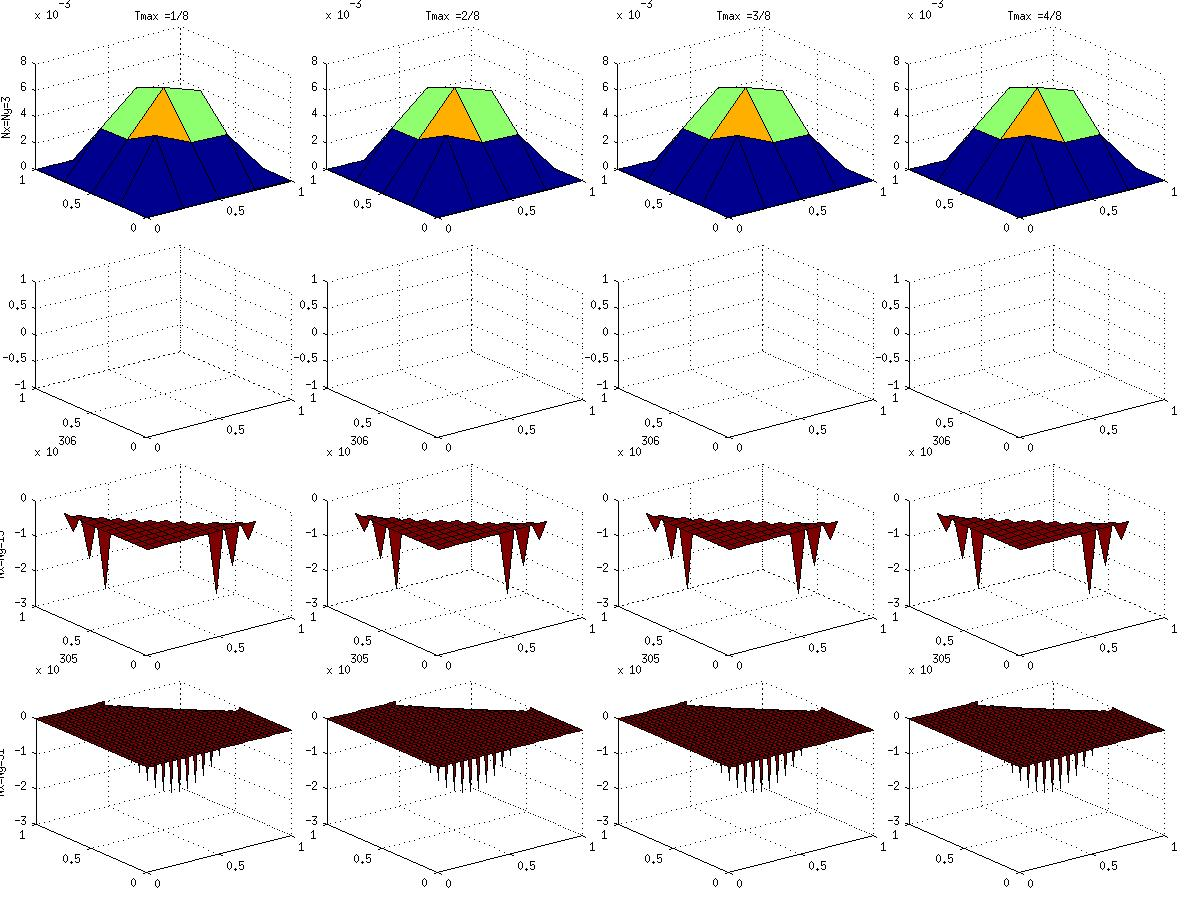
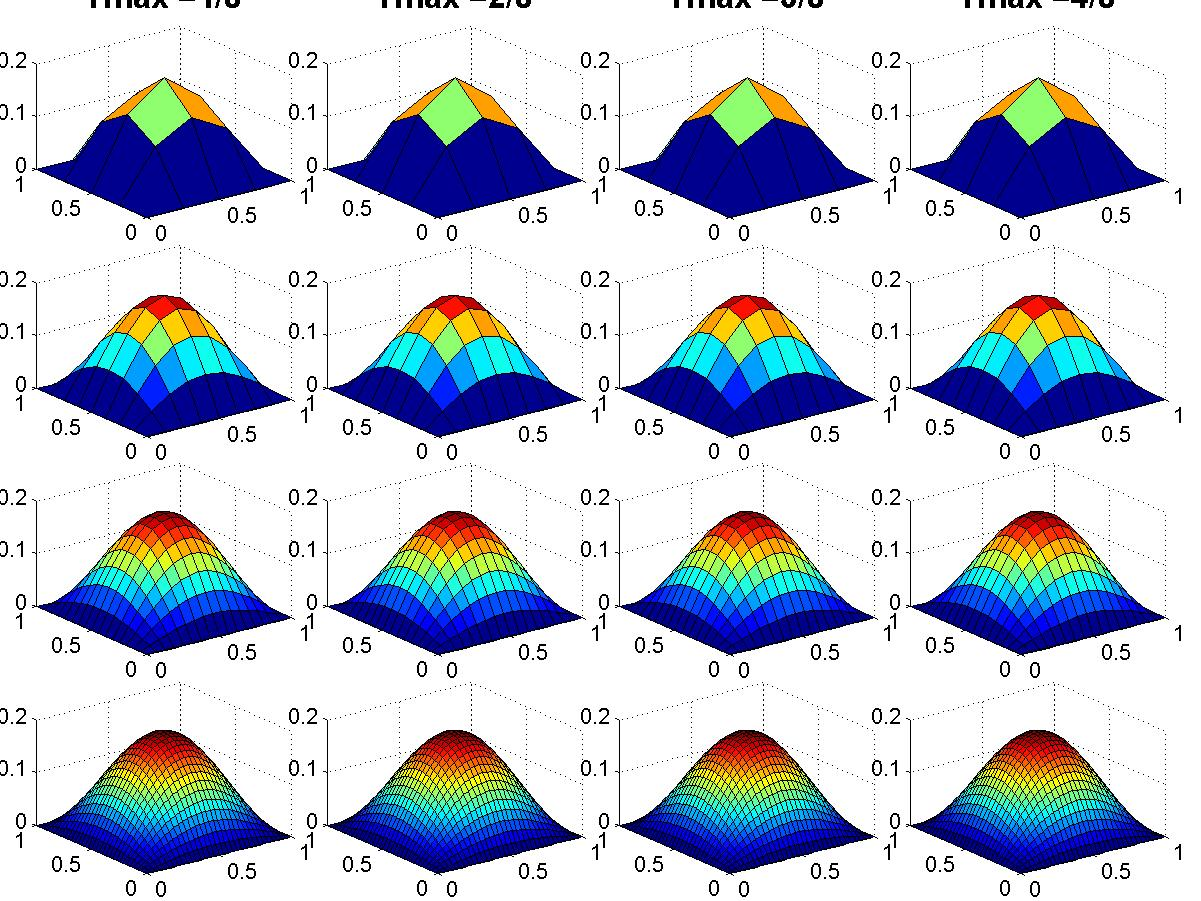
Implemented right Implicit Euler

diff --git a/worksheet4/Chip_Felix_Hasnain/GaussSeidel.m b/worksheet4/Chip_Felix_Hasnain/GaussSeidel.m
@@ -1,12 +1,18 @@
-function [ Tout ] = ImEuler2D( Tin,dt )
-%UNTITLED Summary of this function goes here
-%   Detailed explanation goes here
+function [ Xbnd ] = GaussSeidel( Nx, Ny, B )
+%GAUSSSEIDEL This function implements the Gauss Seidel Method for solving
+%PDE
+%   This function implements the Gauss-Seidel method as a function of the
+%   number of unknowns in the x-direction (respectively y-direction) Nx
+%   (respectively Ny) as well as the precomputed right-hand side B (see
+%   RHS.m). It returns a matrix of computed values (unknowns and boundary
+%   values) after repeteatedly iterating through the entire system until a
+%   predefined accuracy limit has been reached.
 
-LIM = 1e-6;   %max precision value
+LIM = 1e-4;   %max precision value
 IMAX = 20000; %max iterations limit value
 R = LIM + 1;
-[Nx, Ny] = size(Tin(2:end-1,2:end-1));
-Tout = zeros(Nx+2, Ny+2);
+
+Xbnd = zeros(Nx+2, Ny+2);
 
 % defining various coefs for center difference method
 % for T mxn, N = m*n 
@@ -18,9 +24,9 @@ N = (Nx)*(Ny);
 
 % By expressing 1/hx^2 and 1/hy^2 in terms of the number of unknowns Nx and
 % Ny and substitung them by a and c, we obtain:
-a = -dt*(Nx+1)^2;       
-b = -dt*(Ny+1)^2;
-c = 2*dt*((Nx+1)^2+(Ny+1)^2)+1;
+a = (Nx+1)^2;       
+c = (Ny+1)^2;
+b = -2*(a + c);
 
 Rmat = zeros(Nx,Ny); % Bracket term of the residual calculation (see Worksheet)
 
@@ -33,13 +39,13 @@ while R > LIM && n < IMAX
 		for i=2:Nx+1
             % (Re-)Calculating the current unknown in the grid by
             % reordering the above equation
-			Tout(i,j) = Tin(i,j)/c - (a/c)*(Tout(i+1,j)+Tout(i-1,j)) - (b/c)*(Tout(i,j-1)+Tout(i,j+1));
+			Xbnd(i,j) = ((B(i-1,j-1) - a*Xbnd(i-1,j) - a*Xbnd(i + 1,j)- c*Xbnd(i,j -1) - c*Xbnd(i,j +1))/b);
         end
     end
     for j=2:Ny+1
 		for i=2:Nx+1
             % (Re-)Calculating the residual at every point in the grid.
-    		Rmat(i,j) = Tin(i,j) - a*(Tout(i-1,j)+Tout(i+1,j)) - b*(Tout(i,j-1)+Tout(i,j+1)) - c*(Tout(i,j));
+    		Rmat(i,j) = B(i-1,j-1) - b*Xbnd(i,j) -a*Xbnd(i-1,j) - a*Xbnd(i+1,j)- c*Xbnd(i,j-1) - c*Xbnd(i,j+1);
         end
     end
 
@@ -60,3 +66,4 @@ end
 % hold off;
 
 end
+

diff --git a/worksheet4/Chip_Felix_Hasnain/worksheet4.m b/worksheet4/Chip_Felix_Hasnain/worksheet4.m
@@ -7,6 +7,7 @@ dt = [1/64 1/128 1/256 1/512 1/1024 1/2048 1/4096];
 dt2 = [64 128 256 512 2048 1024 4096];
 tmax = [1/8 2/8 3/8 4/8];
 plot_tmax = [1 2 3 4];
+%% Explicit Euler
 
 for k = 1:length(tmax)  % iterates over tmax
 	f = figure('name' , strcat('tmax = ' , num2str(plot_tmax(k)) , '/8'));
@@ -49,4 +50,58 @@ for k = 1:length(tmax)  % iterates over tmax
 		
 end % k loop
 
+%% Implicit Euler
 
+clear all
+close all
+
+Nx = [3 7 15 31];
+Ny = [3 7 15 31];
+dt = 1/64;
+plot_dt = 64;
+tmax = [1/8 2/8 3/8 4/8];
+plot_tmax = [1 2 3 4];
+
+f = figure('name' , strcat('Implicit Euler Method for dt = 1/' , num2str(plot_dt)));
+
+for m = 1:length(Nx) % iterates over Nx	
+					
+		for k = 1:length(tmax)  % iterates over tmax	
+				
+				titrmax = tmax / dt;
+				hx = 1/(Nx(m) + 1);
+				hy = 1/(Ny(m) + 1);
+
+				X = ones(Nx(m), Ny(m));
+				X = padarray(X,[1,1]);
+
+					for t = 1:titrmax % iterates over dt
+						
+						X = ImEuler2D(X,dt);
+% 					
+					end % t loop
+
+					plot_index = (length(tmax))*(m-1) + k;
+					plot_space = 0.03;
+					subplot_tight(4, 4, plot_index, plot_space);
+					surf(X)
+					set(gcf, 'Position', get(0,'Screensize'));
+					set(gcf,'renderer','painters');
+					[Xmesh,Ymesh] = meshgrid(0:hx:1,0:hy:1);
+					surf(Xmesh, Ymesh,X);
+					
+					if k==1
+						zlabel(strcat('Nx=Ny=', num2str(Nx(m))),'fontweight','bold','fontsize',16);
+					end
+					if m==1
+						title(strcat('Tmax = ', num2str(plot_tmax(k)),'/8'),'fontweight','bold','fontsize',16);
+					end
+						
+		end		
+		
+		
+		
+end % 
+
+
+saveas(f,strcat('ImplicitEulerForDt_1per', num2str(plot_dt),'.jpg'));
